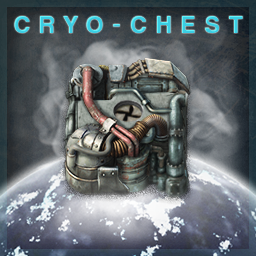
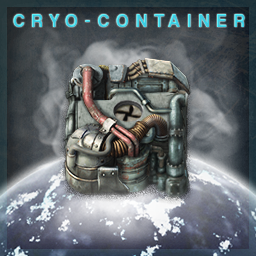
1.0.3-4

Changed region(s): [[0.0312, 0.0312, 0.9688, 0.1562]]

diff --git a/README.md b/README.md
@@ -1,4 +1,4 @@
-# Simple refrigerator
+# Cryo-container
 
 Unlocks at Aquilo after Foundations and Personal fusion reactor. Contains a setting for spoilage slowing rate (default 10x slower). The entity is basically a 2x2 buffer chest with 24 inventory slots.
 
@@ -8,4 +8,4 @@ IMO pretty balanced.
 
 Credit:
 - Visual parts assembled from various Hurricane046 buildings (license CC BY)
-- Logic borrowed from "Cold Chain Logistics (Fridge)" by LightningMaster (license MIT)
+- Logic borrowed from "Cold Chain Logistics (Fridge)" by LightningMaster (license MIT, additional permission granted too)
